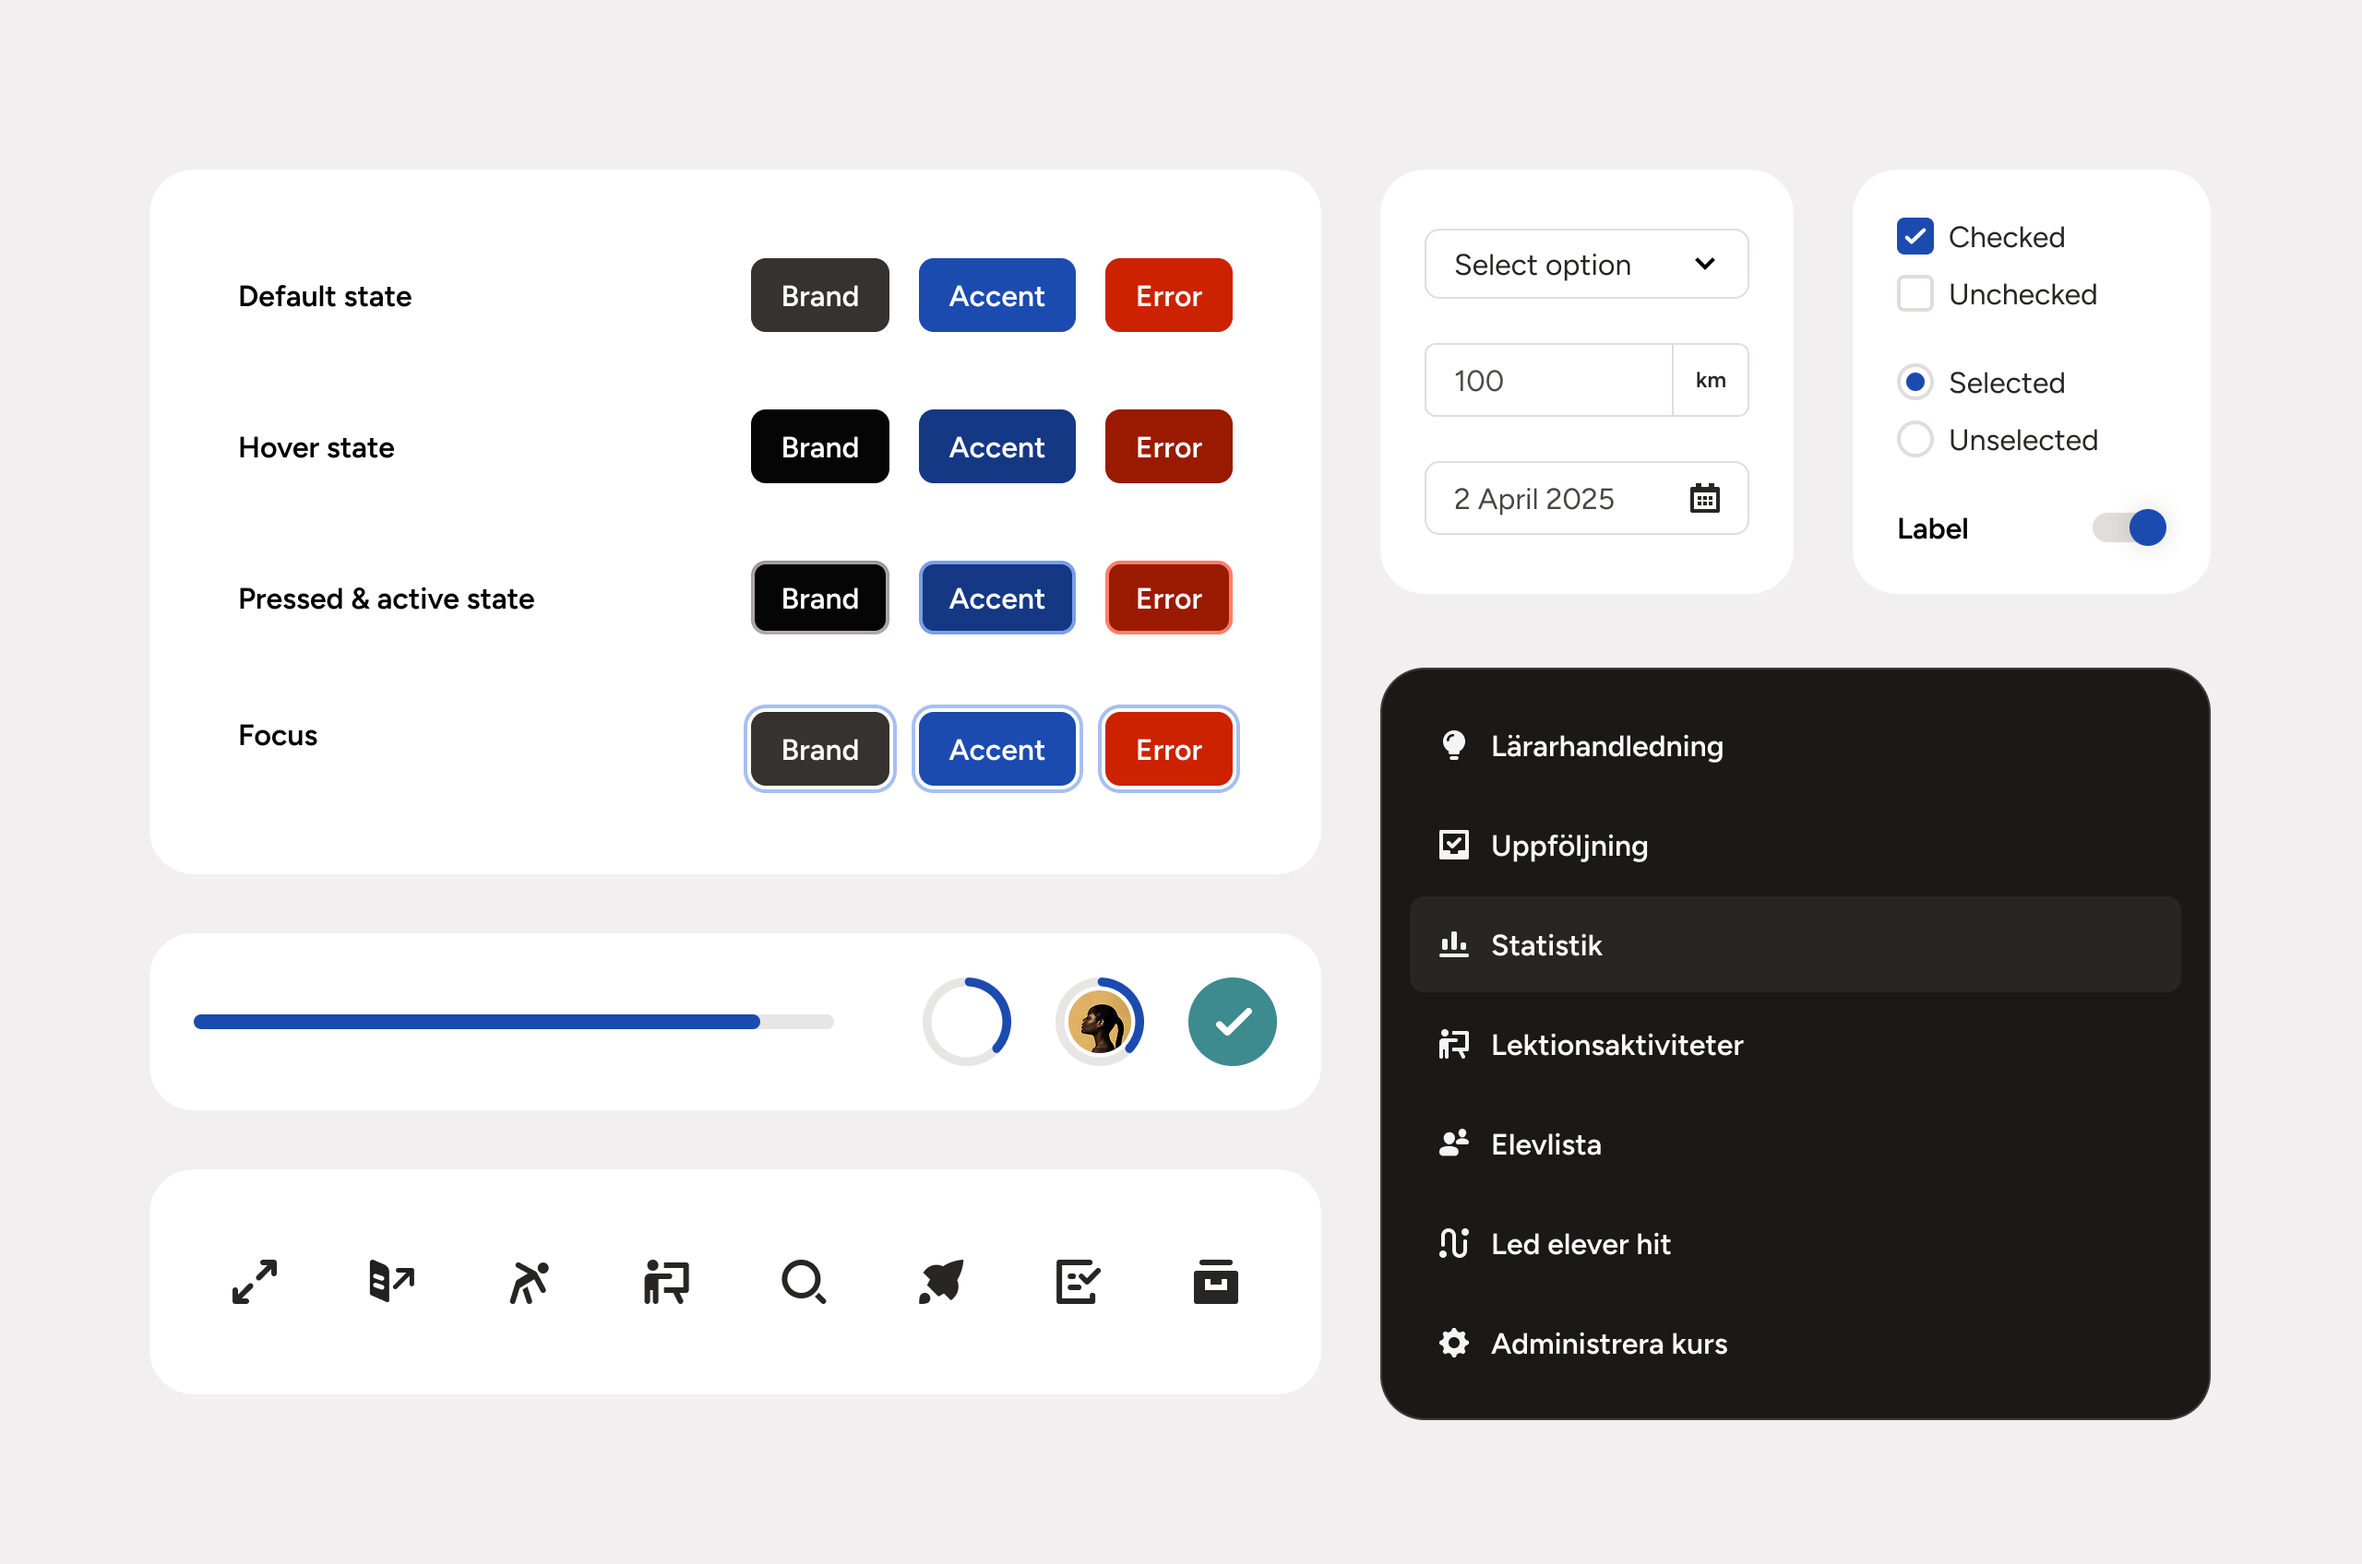
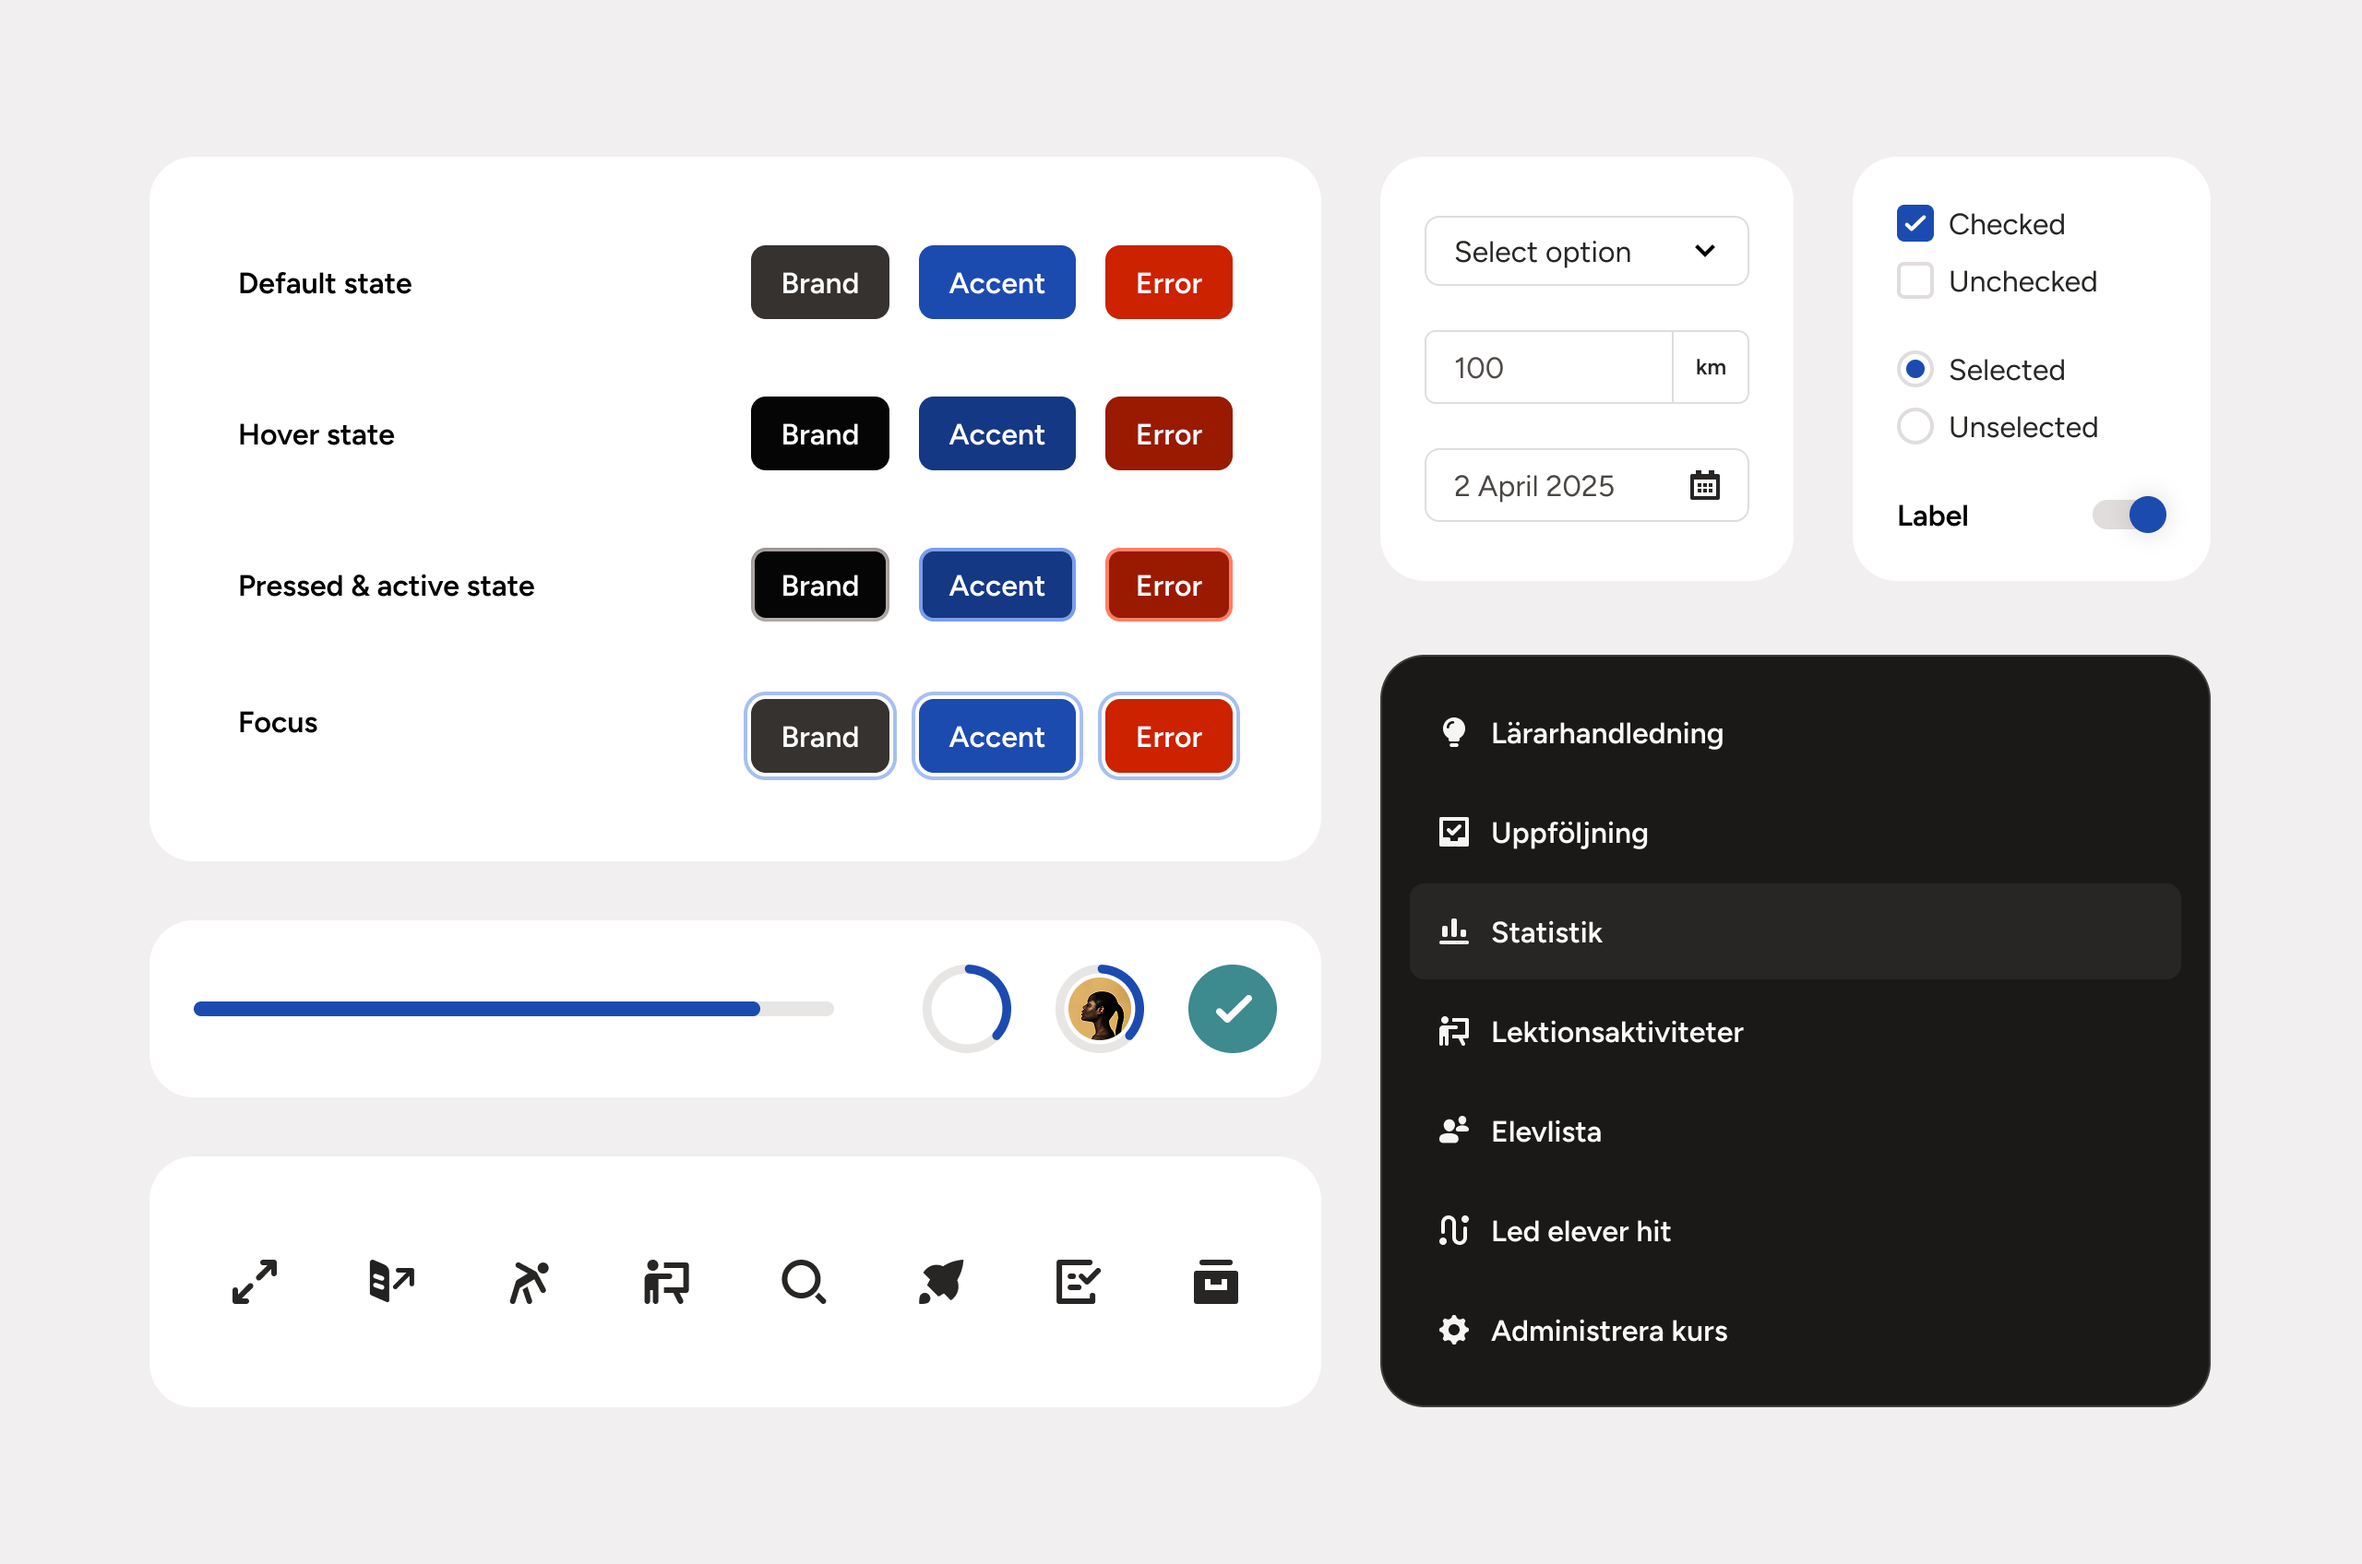
Styling

diff --git a/case/nokkit.html b/case/nokkit.html
@@ -11,18 +11,26 @@ transition: nokkit-card
   <p class="case-intro lead mb-2">Ett omfattande arbete tillsammans med utvecklare att skapa ett enhetligt designsystem för Natur & Kulturs alla digitala tjänster. Genom att etablera gemensamma designprinciper, komponenter och riktlinjer har vi förbättrat användarupplevelsen och effektiviserat utvecklingsprocessen.</p>
   <p class="mb-8"><strong>Roll:</strong> UX, UI, Facilitator</p>
   <h2 class="mb-2">Komponenter</h2>
-  <p class="mb-4">Urval av komponenter från designsystemet.</p>
+  <p class="case-paragraph mb-4">Urval av komponenter från designsystemet.</p>
   <img src="{{ '/assets/images/designsystem-examples.png' | relative_url }}" alt="Nok kit designsystem" class="rounded-lg mb-8">
+  
+  <h2 class="mb-2">Färgsystem</h2>
+  <p class="case-paragraph mb-4">Ett system som täcker alla typer av projekt och används för att skapa enhetlighet i de digitala tjänsterna.</p>
+  <img src="{{ '/assets/images/designsystem-colors.png' | relative_url }}" alt="Nok kit designsystem" class="rounded-lg mb-8">
+
 
   <h2 class="mb-2">Ljust och mörkt läge</h2>
-  <p class="mb-4">Primärt för preferens och tillgänglighet. Togs i första hand fram i samarbete med PTS</p>
+  <p class="case-paragraph mb-4">Primärt för preferens och tillgänglighet. Togs i första hand fram i samarbete med <a href="https://www.pts.se/" target="_blank" class="link">PTS</a>.</p>
   <img src="{{ '/assets/images/designsystem-darklight.png' | relative_url }}" alt="Nok kit designsystem" class="rounded-lg mb-8">
 
+
   <h2 class="mb-2">Olika lägen</h2>
-  <p class="mb-4">Vi arbetade också fram ett läge vi kallade för spacious i de fall gränssnittet behöver mer luft och större klickytor.</p>
+  <p class="case-paragraph mb-4">Designsystemet har olika lägen för att passa olika behov. I de fall gränssnittet behöver mer luft och större klickytor som t.ex yngre åldrar har vi skapat ett läge vi kallar för spacious.</p>
   <img src="{{ '/assets/images/designsystem-modes.png' | relative_url }}" alt="Nok kit designsystem" class="rounded-lg mb-8">
 
   <h2 class="mb-2">Tokens</h2>
-  <p class="mb-4">För att komma närmare ett språk som fungerar från design till kod tog vi fram tokens för färger, typsnitt och mått.</p>
+  <p class="case-paragraph mb-4">För att komma närmare ett språk som fungerar från design till kod tog vi fram tokens för färger, typsnitt och mått.</p>
   <img src="{{ '/assets/images/designsystem-tokens.jpg' | relative_url }}" alt="Nok kit designsystem" class="rounded-lg mb-8">
+
+  <a href="/" class="link">Tillbaka till alla case</a>
 </article>

diff --git a/assets/css/style.css b/assets/css/style.css
@@ -13,6 +13,13 @@
     line-height: 1.5;
     font-size: var(--font-size-1);
   }
+  
+  h1, h2, h3, h4, h5, h6 {
+    text-wrap: balance;
+  }
+  p {
+    text-wrap: pretty;
+  }
 
   .case { 
     header {
@@ -169,7 +176,6 @@
     }
   }
 
-
   .case-card-content {
     grid-column: 1 / 5;
     grid-row: 1 / 3;
@@ -235,6 +241,13 @@
     }
   }
 }
+
+  .case-paragraph {
+    text-wrap: pretty;
+    @media (min-width: 1280px) {
+      max-width: 50dvw;
+    }
+  }
 
 @layer animations {
   @keyframes fade-in-down {

diff --git a/assets/css/tokens.css b/assets/css/tokens.css
@@ -80,7 +80,7 @@
 
   }
 
-  @media (prefers-color-scheme: dark) {
+  /* @media (prefers-color-scheme: dark) {
     :root {
       --surface: hsl(240, 10%, 15%);
       --on-surface: hsl(0, 0%, 100%);
@@ -110,7 +110,7 @@
       --case-teal: hsl(180, 100%, 30%);
       --on-case-teal: hsl(180, 100%, 90%);
     }
-  }
+  } */
 
   h1, h2, h3, h4, h5, h6 {
     font-weight: 1000;
